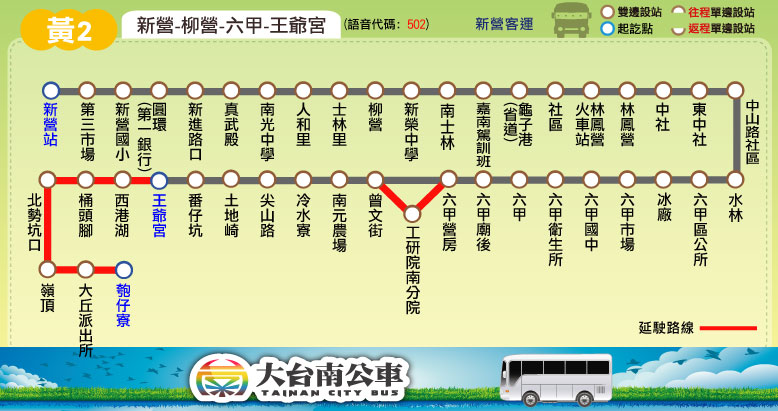
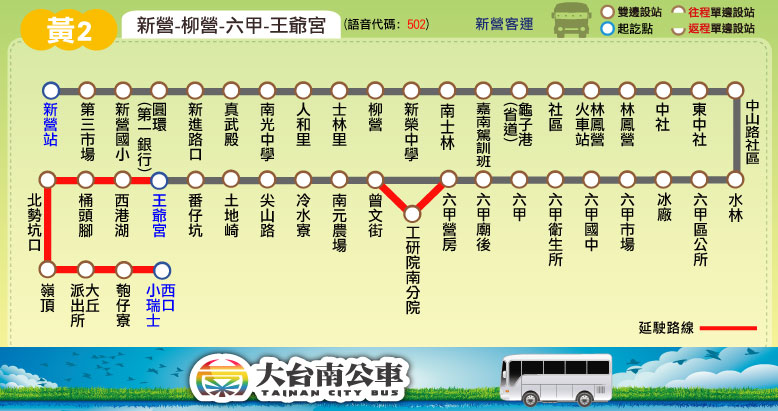
更新路線圖：黃2(延駛「西口小瑞士」)； 更新時刻表：藍2、綠1、綠2、綠5、綠7、綠13、綠16、綠17、綠22、黃1、黃2、黃4； 更新預估到站時刻表：70路； 新增站位：綠13(增「南屏農場」)、99路(增「安平蚵灰窯文化館」(單向)、「大員皇冠假日酒店(安北路)」、「龍山村」)； 更新票價資訊：市民卡及轉乘加碼優惠延長至108/06/30、電子票證新增iCash 2.0

Changed region(s): [[0.0925, 0.6131, 0.2468, 0.8759], [0.0617, 0.6423, 0.0925, 0.6715]]

diff --git a/route/fare_and_time/yellow_2.js b/route/fare_and_time/yellow_2.js
@@ -1,4 +1,4 @@
-yellow_2_interval_name = ["新營","人和里","柳營","龜子港","林鳳營","中社","六甲","六甲<br />營房","南元<br />農場","冷水寮","尖山路","土地崎","王爺宮","西港湖","北勢<br />坑口","大丘"];
+yellow_2_interval_name = ["新營","人和里","柳營","龜子港","林鳳營","中社","六甲","六甲<br />營房","南元<br />農場","冷水寮","尖山路","土地崎","王爺宮","西港湖","北勢<br />坑口","大丘","西口<br />小瑞士"];
 yellow_2_interval_stop = [ // 2018.01.31 checked
 ["新營站","第三市場","新營國小","圓環(第一銀行)","新進路口","真武殿","南光中學"], // 新營
 ["人和里"], // 人和里
@@ -7,15 +7,16 @@ yellow_2_interval_stop = [ // 2018.01.31 checked
 ["林鳳營火車站","林鳳營"], // 林鳳營
 ["中社","東中社"], // 中社
 ["中山路社區","水林","六甲區公所","冰廠","六甲市場","六甲國中","六甲衛生所","六甲","六甲廟後"], // 六甲
-["六甲營房"], // 六甲營房
-["工研院南分院","曾文街","南元農場"], // 南元農場
+["六甲營房","工研院南分院"], // 六甲營房
+["曾文街","南元農場"], // 南元農場
 ["冷水寮"], // 冷水寮
 ["尖山路"], // 尖山路
 ["土地崎"], // 土地崎
 ["番仔坑","王爺宮"], // 王爺宮
 ["西港湖","桶頭腳"], // 西港湖
 ["北勢坑口"], // 北勢坑口
-["嶺頂","大丘派出所","匏仔寮"] // 大丘
+["嶺頂","大丘派出所","匏仔寮"], // 大丘
+["西口小瑞士"] // 西口小瑞士
 ];
 yellow_2_fare = [
 [26],
@@ -33,33 +34,35 @@ yellow_2_fare = [
 [78,69,64,54,48,43,28,26,26,26,26,26,26],
 [87,78,73,63,57,52,37,30,26,26,26,26,26,26],
 [96,87,82,72,65,61,46,38,34,30,26,26,26,26,26],
-[108,99,93,84,77,72,58,50,45,42,37,34,30,26,26,26]
+[108,99,93,84,77,72,58,50,45,42,37,34,30,26,26,26],
+[120,111,106,96,90,85,70,62,58,54,49,46,42,33,26,26,26]
 ];
 // format = [time at the start stop] or
 // [time, other] or
 // [time, start_stop, end_stop, other]
-yellow_2_main_stop_name = ["新營站","柳營","龜子港<br />(省道)","林鳳營<br />火車站","六甲","工研院<br />南分院","王爺宮","西港湖","北勢<br />坑口","匏仔寮"];
-yellow_2_main_stop_time_consume = [0, 9, 15, 18, 30, 37, 50, 55, 59, 70];
-yellow_2_important_stop = [0, 3, 4, 6]; // 新營站, 林鳳營火車站, 六甲, 王爺宮
+yellow_2_main_stop_name = ["新營站","柳營","龜子港<br />(省道)","林鳳營","六甲","工研院<br />南分院","王爺宮","西港湖","北勢<br />坑口","匏仔寮","西口<br />小瑞士"];
+yellow_2_main_stop_time_consume = [0, 9, 15, 18, 30, 37, 50, 55, 59, 66, 72];
+yellow_2_important_stop = [0, 3, 4, 6, 10]; // 新營站, 林鳳營, 六甲, 王爺宮, 西口小瑞士
 var Sinying = 0; // 新營站
 var Liouying = 1; // 柳營
 var Gueizihgang = 2; // 龜子港(省道)
-var TRA_Linfongying = 3; // 林鳳營火車站
+var Linfongying = 3; // 林鳳營
 var Lioujia = 4; // 六甲
 var ITRI = 5; // 工研院南分院
 var Wangye_Temple = 6; // 王爺宮
 var Sigang_Lake = 7; // 西港湖
 var Beishihkengkou = 8; // 北勢坑口
 var Paozihlaio = 9; // 匏仔寮
-yellow_2_time_go = [["05:40",[[Liouying,-3,Liouying+1,-3,Lioujia,-4,Wangye_Temple,-3,Paozihlaio,-2]]],
+var Sikou_Little_Swiss = 10; // 西口小瑞士
+yellow_2_time_go = [["05:40",[[Liouying,-3,Gueizihgang,-3,Lioujia,-4,Wangye_Temple,-4,Sigang_Lake,-1,Beishihkengkou,-1,]]],
 ["07:30",Sinying,Wangye_Temple,[[Liouying,1,Gueizihgang,-1]]],
 ["11:00",[[Gueizihgang,-1,Lioujia,1]]],
 ["14:20",Sinying,Wangye_Temple,[[Gueizihgang,-2,Lioujia,2]]],
-["16:40",[[Liouying,1,Gueizihgang,-1,TRA_Linfongying,1,Lioujia,1,ITRI,1,Wangye_Temple,-3,Sigang_Lake,-1,Paozihlaio,1]]],
-["17:45",Sinying,Wangye_Temple,[[Liouying,5,TRA_Linfongying,3,Lioujia,4,ITRI,2,Wangye_Temple,1]]]];
+["16:40",[[Liouying,1,Gueizihgang,-1,Linfongying,1,Lioujia,1,ITRI,1,Wangye_Temple,-3,Beishihkengkou,1,Paozihlaio,4,Sikou_Little_Swiss,-1]]],
+["17:45",Sinying,Wangye_Temple,[[Liouying,5,Linfongying,3,Lioujia,4,ITRI,2,Wangye_Temple,1]]]];
 yellow_2_time_return = [["06:00",Wangye_Temple,Sinying,[ITRI,[ITRI,-5]]],
-["06:40",[[Beishihkengkou,-6,ITRI,-4,Liouying,-1,Sinying,6]]],
-["08:25",Wangye_Temple,Sinying,[[ITRI,-3,Lioujia,1,TRA_Linfongying,1,Gueizihgang,1]]],
-["12:15",[[Beishihkengkou,-6,ITRI,-3,Lioujia,1,TRA_Linfongying,1,Gueizihgang,1,Sinying,1]]],
+["06:40",[[Beishihkengkou,-2,ITRI,-4,Liouying,-1,Sinying,6]]],
+["08:25",Wangye_Temple,Sinying,[[ITRI,-3,Lioujia,1,Linfongying,1,Gueizihgang,1]]],
+["12:20",[[Beishihkengkou,-1,Wangye_Temple,-1,ITRI,-3,Lioujia,1,Linfongying,1,Gueizihgang,1,Liouying,-1,Sinying,1]]],
 ["15:15",Wangye_Temple,Sinying,[[ITRI,-3,Lioujia,1,Gueizihgang,1,Liouying,-1,Sinying,2]]],
-["17:55",[[Beishihkengkou,-5,Wangye_Temple,-1,ITRI,-3,Lioujia,1,TRA_Linfongying,1,Liouying,-1,Sinying,3]]]];
+["18:10",[[Beishihkengkou,-1,Wangye_Temple,-1,ITRI,-3,Lioujia,1,Gueizihgang,1,Liouying,-1,Sinying,1]]]];

diff --git a/route/fare_and_time/yellow_4.js b/route/fare_and_time/yellow_4.js
@@ -31,12 +31,24 @@ yellow_4_fare = [
 // [time, other] or
 // [time, start_stop, end_stop, other]
 yellow_4_main_stop_name = ["新營站","柳營奇<br />美醫院","法主宮","明聖殿","小腳腿","山仔腳","二重溪","果毅後<br />廟前","六甲"];
-yellow_4_main_stop_time_consume = [0, 13, 17, 19, 23, 30, 34, 40, 50];
+yellow_4_main_stop_time_consume = [0, 11, 17, 19, 23, 28, 33, 40, 50];
 yellow_4_important_stop = [0, 1, 4, 8]; // 新營站, 柳營奇美醫院, 小腳腿, 六甲
 var Sinying = 0; // 新營站
 var Liouying_Chi_Mei_Hospital = 1; // 柳營奇美醫院
+var Fajhu_Temple = 2; // 法主宮
+var Mingsheng_Temple = 3; // 明聖殿
 var Siaojiaotuei = 4; // 小腳腿
+var Shanzihjiao = 5; // 山仔腳
+var Erchong_River = 6; // 二重溪
+var Guoyihou_Temple = 7; // 果毅後廟前
 var Lioujia = 8; // 六甲
-yellow_4_time_go = [["06:40"],["08:40"],["10:10"],["12:10"],["14:00"],["16:15"],["18:45"]];
-yellow_4_time_return = [["05:50",[Liouying_Chi_Mei_Hospital,[Lioujia-1,-2,Lioujia-2,2]]],["07:40",[[Siaojiaotuei,1,Liouying_Chi_Mei_Hospital,1,Sinying,-2]]],["09:40",[[Siaojiaotuei,1,Liouying_Chi_Mei_Hospital,1,Sinying,-2]]],
-["11:10",[[Lioujia-1,-1,Liouying_Chi_Mei_Hospital,1,Sinying,-2]]],["13:10",[[Lioujia-1,-1,Liouying_Chi_Mei_Hospital,1,Sinying,-2]]],["14:55",[[Liouying_Chi_Mei_Hospital,1,Sinying,-1]]],["17:15",[[Siaojiaotuei,1,Liouying_Chi_Mei_Hospital,1,Sinying,-2]]]];
+yellow_4_time_go = [["06:40",[[Liouying_Chi_Mei_Hospital,-1,Mingsheng_Temple,1,Siaojiaotuei,-1,Erchong_River,-1,Guoyihou_Temple,2]]],
+["08:40"],["10:10"],["12:10"],["14:00"],["16:15",[[Liouying_Chi_Mei_Hospital,1,Shanzihjiao,1,Lioujia,-2]]],
+["18:45",[[Shanzihjiao,1,Guoyihou_Temple,-1]]]];
+yellow_4_time_return = [["05:50",[Liouying_Chi_Mei_Hospital,[Guoyihou_Temple,-2,Fajhu_Temple,1,Sinying,1]]],
+["07:45",[[Guoyihou_Temple,-1,Erchong_River,-1,Fajhu_Temple,1,Sinying,1]]],
+["09:45",[[Guoyihou_Temple,-1,Erchong_River,-1,Fajhu_Temple,1,Sinying,1]]],
+["11:15",[[Guoyihou_Temple,-1,Erchong_River,-1,Fajhu_Temple,1,Liouying_Chi_Mei_Hospital,-1,Sinying,2]]],
+["13:15",[[Guoyihou_Temple,-1,Erchong_River,-1,Fajhu_Temple,1,Liouying_Chi_Mei_Hospital,-1,Sinying,2]]],
+["15:05",[[Guoyihou_Temple,-1,Fajhu_Temple,1,Liouying_Chi_Mei_Hospital,-1,Sinying,1]]],
+["17:25",[[Guoyihou_Temple,-1,Fajhu_Temple,1]]]];

diff --git a/tools/transfer_information.js b/tools/transfer_information.js
@@ -176,11 +176,9 @@ transfer_tainan_railway_station = '<tr><th rowspan="9">臺南火車站</th>\
 <tr><td style="text-align: center"><img src="' + LOGO_DIR_PATH + 'highway_bus_transfer_logo.png"></td>\
 	<td id="tour_bus">' + link_highway_bus_8046A + '、' + link_highway_bus_8046 + '、' + link_highway_bus_8050 + '</td></tr>';
 
-transfer_Shangrila = '<tr><th rowspan="4">香格里拉大飯店</th>\
+transfer_Shangrila = '<tr><th rowspan="3">香格里拉大飯店</th>\
 <td style="text-align: center"><img src="' + LOGO_DIR_PATH + 'railway.png"></td>\
 	<td><span style="color:#00AAFF;">台鐵臺南站</span></td></tr>\
-<tr><td style="text-align: center"><img src="' + LOGO_DIR_PATH + 'taiwantrip_logo.png"></td>\
-	<td id="tour_bus">' + link_tour_bus_99 + '</td></tr>\
 <tr><td style="text-align: center"><img src="' + LOGO_DIR_PATH + 'red_transfer_logo.png"></td>\
 	<td id="tour_bus">' + link_sightseeing_eastern + '</td></tr>\
 <tr><td style="text-align: center"><img src="' + LOGO_DIR_PATH + 'city_bus_transfer_logo.png"></td>\
@@ -240,13 +238,11 @@ transfer_taiwan_history_museum = '<tr><th>臺灣歷史博物館</th>\
 <td style="text-align: center"><img src="' + LOGO_DIR_PATH + 'city_bus_transfer_logo.png"></td>\
 	<td id="city_bus">' + link_city_bus_18 + '、' + link_city_bus_20 + '</td></tr>';
 
-transfer_aboriginal_culture_center = '<tr><th rowspan="3">原住民文化會館</th>\
+transfer_aboriginal_culture_center = '<tr><th rowspan="2">原住民文化會館</th>\
 <td style="text-align: center"><img src="' + LOGO_DIR_PATH + 'city_bus_transfer_logo.png"></td>\
 	<td id="city_bus">' + link_city_bus_19 + '、' + link_city_bus_77 + '、' + link_city_bus_77_2 + '</td></tr>\
 <tr><td style="text-align: center"><img src="' + LOGO_DIR_PATH + 'hsr_shuttle_logo.png"></td>\
-	<td id="hsr_shuttle">' + link_hsr_shuttle_H31 + '</td></tr>\
-<tr><td style="text-align: center"><img src="' + LOGO_DIR_PATH + 'taiwantrip_logo.png"></td>\
-	<td id="tour_bus">' + link_tour_bus_88 + '</td></tr>';
+	<td id="hsr_shuttle">' + link_hsr_shuttle_H31 + '</td></tr>';
 
 transfer_anping_fishermans_wharf = '<tr><th rowspan="2">安平漁人碼頭</th>\
 <td style="text-align: center"><img src="' + LOGO_DIR_PATH + 'city_bus_transfer_logo.png"></td>\

diff --git a/route/fare_and_time/yellow_1.js b/route/fare_and_time/yellow_1.js
@@ -26,9 +26,15 @@ yellow_1_fare = [
 // format = [time at the start stop] or
 // [time, other] or
 // [time, start_stop, end_stop, other]
-yellow_1_main_stop_name = ["新營站","柳營","龜子港<br />(省道)","林鳳營<br />火車站","六甲","烏山頭<br />水庫","臺南<br />藝術大學"];
+yellow_1_main_stop_name = ["新營站","柳營","龜子港<br />(省道)","林鳳營","六甲","烏山頭<br />水庫","臺南<br />藝術大學"];
 yellow_1_main_stop_time_consume = [0, 9, 14, 17, 29, 34, 40];
-yellow_1_important_stop = [0, 3, 4, 5, 6]; // 新營站, 林鳳營火車站, 六甲, 烏山頭水庫, 臺南藝術大學
-var main_end_stop = 4; // 六甲
-yellow_1_time_go = [["06:00",0,main_end_stop],["06:50",0,main_end_stop],["08:25"],["09:30"],["12:20"],["13:10"],["15:10"],["17:20",0,main_end_stop],["18:50",0,main_end_stop]];
-yellow_1_time_return = [["06:35",main_end_stop,0],["07:30",main_end_stop,0],["09:15"],["10:20"],["13:10"],["14:00"],["16:00"],["18:10",main_end_stop,0],["19:30",main_end_stop,0]];
+yellow_1_important_stop = [0, 4, 5, 6]; // 新營站, 六甲, 烏山頭水庫, 臺南藝術大學
+var Sinying = 0; // 新營站
+var Liouying = 1; // 柳營
+var Gueizihgang = 2; // 龜子港(省道)
+var Linfongying = 3; // 林鳳營
+var Lioujia = 4; // 六甲
+yellow_1_time_go = [["06:00",Sinying,Lioujia],["06:50",Sinying,Lioujia],["08:25"],["09:30"],["12:20"],["13:10"],["15:10"],["17:20",Sinying,Lioujia],["18:50",Sinying,Lioujia],
+["21:10",Sinying,Lioujia,[[Liouying,-2,Gueizihgang,-1,Lioujia,-1]]]];
+yellow_1_time_return = [["06:35",Lioujia,Sinying],["07:30",Lioujia,Sinying],["09:15"],["10:20"],["13:10"],["14:00"],["16:00"],["18:10",Lioujia,Sinying],["19:30",Lioujia,Sinying],
+["21:40",Lioujia,Sinying,[[Linfongying,-3,Liouying,-2,Sinying,-2]]]];

diff --git a/tools/msg.js b/tools/msg.js
@@ -1,5 +1,5 @@
-MeteredMSG = '<h3><font color="red">刷電子票證(悠遊卡、一卡通)8公里免費</font></h3>';
-CitybusMSG = '<span style="color: red;font-size:20px;font-weight:bold;">台南市民搭乘市區公車(0~99路，33路除外)，並且上、下車都刷市民卡，第1段半價(9元)，當日第2段起免費！</span><br /><span style="color: red;font-size:18px;font-weight:bold;">（本項優惠至108/03/31止，下車未刷卡時，當日搭乘下一段次仍維持半價9元計費）</span><p></p>';
+MeteredMSG = '<h3><font color="red">刷電子票證(悠遊卡、一卡通、iCash 2.0)8公里免費</font></h3>';
+CitybusMSG = '<span style="color: red;font-size:20px;font-weight:bold;">台南市民搭乘市區公車(0~99路，33路除外)，並且上、下車都刷市民卡，第1段半價(9元)，當日第2段起免費！</span><br /><span style="color: red;font-size:18px;font-weight:bold;">（本項優惠至108/06/30止，下車未刷卡時，當日搭乘下一段次仍維持半價9元計費）</span><p></p>';
 PromotionMSG = '<h2>使用電子票證時，上下車皆須刷卡</h2><br /><span style="color:#7F3310;font-size:20px;font-weight:bold;">搭乘台鐵及大台南公車，並且上、下車都刷卡，<br />4小時內轉乘市區公車1段票免費、轉乘幹支線公車8公里免費再折扣9元(需使用電子票證，公車轉台鐵無優惠)</span><p></p><h3>65歲以上長者刷台南市民卡敬老卡及身障人士刷台南市民卡愛心卡，可享大台南公車全線免費搭乘</h3>';
 TimeScheduleMSG = '<p><h2>除了起站為發車時間，其餘站點皆為預估時間，敬請提早候車。</h2></p>';
 W_message = '<font color="#0000FF">W</font>表示僅平日行駛';

diff --git a/route/fare_and_time/green_13.js b/route/fare_and_time/green_13.js
@@ -4,7 +4,7 @@ green_13_interval_stop = [
 ["太平洋社區","蜜月新城","佛顓寺","東成醬油","桃源新城","虎頭埤口"], // 虎頭埤
 ["埤後","口埤","興大林場","赤峰崎","筍廠","茄苓崁","新化慈惠堂","將軍山","風窗"], // 茄苓崁
 ["那拔寮","大坑國小","大坑里"], // 大坑里
-["大坑休閒農場","烏樹林","龍行寺","大谷山","慈蓮寺"], // 大谷山
+["南屏農場","大坑休閒農場","烏樹林","龍行寺","大谷山","慈蓮寺"], // 大谷山
 ["旗來山","岡林","岡林教會","大丘園","岡林橋","紅柿腳","外岡林","大坪崎","水流東"], // 岡林
 ["下崁子","內庄子","龜潭"], // 內庄子
 ["內庄路口","睦光","公館"], // 睦光
@@ -27,5 +27,5 @@ green_13_fare = [
 green_13_main_stop_name = ["新化","虎頭埤口","興大林場","大坑<br />休閒農場","大谷山","慈蓮寺","岡林","內庄路口","左鎮<br />區公所"];
 green_13_main_stop_time_consume = [0, 6, 9, 17, 19, 20, 25, 38, 45];
 green_13_important_stop = [0, 2, 5, 8]; // 新化, 興大林場, 慈蓮寺, 左鎮區公所
-green_13_time_go = [["05:50"],["06:10",0,5,['W']],["08:10"],["09:00"],["10:45"],["11:30"],["15:10"],["17:00"],["18:10"]];
-green_13_time_return = [["06:30",5,0,['W']],["06:45"],["08:55"],["09:45"],["11:30"],["12:15"],["15:55"],["17:45"],["18:55"]];
+green_13_time_go = [["05:50"],["06:10",0,5,['W']],["08:20"],["09:00"],["10:45"],["11:30"],["15:10"],["17:00"],["18:10"]];
+green_13_time_return = [["06:30",5,0,['W']],["06:45"],["09:05"],["09:45"],["11:30"],["12:15"],["15:55"],["17:45"],["18:55"]];

diff --git a/route/fare_and_time/green_16.js b/route/fare_and_time/green_16.js
@@ -33,13 +33,13 @@ green_16_time_go = [["05:50",start_stop,stop_2,[skip_stop,'豐']],["07:00",start
 ["10:00",start_stop,stop_1,[skip_stop]],["11:00",[skip_stop]],["12:00",start_stop,stop_1,[[2,5]]],
 ["13:00",start_stop,stop_1,[skip_stop]],["14:00",[skip_stop]],["15:00",start_stop,stop_1,[skip_stop]],
 ["16:10",start_stop,stop_1,[skip_stop]],["17:25",start_stop,stop_1,[[2,5]]],["18:55",[skip_stop]],
-["19:10",start_stop,stop_1,[skip_stop]],["20:00",start_stop,stop_1,[skip_stop]],["21:00",start_stop,stop_1,[skip_stop]],
-["21:30",start_stop,stop_1,[skip_stop]]
+["19:20",start_stop,stop_1,[skip_stop]],["20:00",start_stop,stop_1,[skip_stop]],["21:00",start_stop,stop_1,[skip_stop]],
+["22:00",start_stop,stop_1,[skip_stop]]
 ];
 green_16_time_return = [["06:20",stop_2,start_stop,[skip_stop,'豐']],["07:30",stop_1,start_stop,[[skip_stop,5]]],
 ["09:15",[skip_stop]],["10:25",stop_1,start_stop,[skip_stop]],["11:45",[skip_stop]],["12:30",stop_1,start_stop,[[skip_stop,5]]],
 ["13:25",stop_1,start_stop,[skip_stop]],["14:45",[skip_stop]],["15:25",stop_1,start_stop,[skip_stop]],
-["16:35",stop_1,start_stop,[skip_stop]],["17:55",stop_1,start_stop,[[skip_stop,5]]],["19:35",stop_1,start_stop,[skip_stop]],
+["16:35",stop_1,start_stop,[skip_stop]],["17:55",stop_1,start_stop,[[skip_stop,5]]],["19:40",stop_1,start_stop,[skip_stop]],
 ["19:40",[skip_stop]],["20:25",stop_1,start_stop,[skip_stop]],["21:25",stop_1,start_stop,[skip_stop]],
-["21:55",stop_1,start_stop,[skip_stop]]
+["22:25",stop_1,start_stop,[skip_stop]]
 ];

diff --git a/route/fare_and_time/green_22.js b/route/fare_and_time/green_22.js
@@ -19,9 +19,9 @@ green_22_fare = [
 green_22_main_stop_name = ["玉井站","鹿陶","鹿陶洋","楠西","香蕉市","梅嶺<br />資訊站","梅嶺"];
 green_22_main_stop_time_consume = [0, 7, 9, 15, 23, 28, 40];
 green_22_important_stop = [0, 3, 6]; // 玉井站, 楠西, 梅嶺
-green_22_time_go = [["07:20"],["10:50"],["11:30"],["14:30"],["18:00"]];
-green_22_time_return = [["08:00"],["11:30"],["12:10"],["15:10"],["18:40"]];
+green_22_time_go = [["07:20"],["10:50"],["11:30"],["14:30"],["18:00"],["20:10",["螢"]]];
+green_22_time_return = [["08:00"],["11:30"],["12:10"],["15:10"],["18:40"],["20:50",["螢"]]];
 
 // holiday schedule
-green_22_holiday_time_go = [["07:20"],["08:10"],["09:30"],["10:50"],["11:30"],["12:30"],["15:40"],["17:10"],["18:00"],["19:30"]];
-green_22_holiday_time_return = [["08:00"],["08:50"],["10:10"],["11:30"],["12:10"],["13:10"],["16:20"],["17:50"],["18:40"],["20:10"]];
+green_22_holiday_time_go = [["07:20"],["08:10"],["09:30"],["10:50"],["11:30"],["12:30"],["15:40"],["17:10"],["18:00"],["19:30"],["20:10",["螢"]],["20:40",["螢"]]];
+green_22_holiday_time_return = [["08:00"],["08:50"],["10:10"],["11:30"],["12:10"],["13:10"],["16:20"],["17:50"],["18:40"],["20:10"],["20:50",["螢"]],["21:20",["螢"]]];

diff --git a/route/fare_and_time/city_bus_70.js b/route/fare_and_time/city_bus_70.js
@@ -2,7 +2,7 @@
 // [time, other] or
 // [time, start_stop, end_stop, other]
 city_bus_70_main_stop_name = ["永華市政中心<br />(府前路)","賢北里","中華北<br />文賢路口","甲頂里","大橋","崑山<br />中學","成大醫院<br />(小東路)","香格里<br />拉飯店","臺南<br />一中","大東<br />夜市","體育公園<br />(臺南大學)","健康<br />金華路口","永華市政中心<br />(府前路)"];
-city_bus_70_main_stop_time_consume = [0, 13, 20, 25, 31, 36, 42, 47, 53, 57, 62, 66, 72];
+city_bus_70_main_stop_time_consume = [0, 7, 10, 15, 20, 25, 30, 35, 41, 45, 50, 54, 60];
 city_bus_70_important_stop = [0, 4, 7, 12]; // 永華市政中心(府前路), 大橋, 香格里拉飯店, 永華市政中心(府前路)
 city_bus_70_time_go = [["06:00"],["06:20"],["06:40"],["07:00"],["07:20"],["07:40"],["08:00"],["08:20"],["08:40"],["09:00"],["09:20"],["10:00"],["11:00"],["12:00"],["13:00"],["14:00"],["14:30"],["15:00"],["15:30"],["16:00"],["16:20"],["16:40"],["17:00"],["17:20"],["17:40"],["18:00"],["18:20"],["18:40"],["19:00"],["20:00"],["21:00"],["22:00"]
 ];

diff --git a/route/fare_and_time/blue_2.js b/route/fare_and_time/blue_2.js
@@ -25,7 +25,7 @@ blue_2_fare = [
 blue_2_main_stop_name = ["佳里站","奇美<br />佳里分院","大灣","學甲","東中洲","溪底寮","北門國中","井仔腳","北門","南鯤鯓"];
 blue_2_main_stop_time_consume = [0, 5, 10, 15, 20, 24, 27, 30, 37, 45];
 blue_2_important_stop = [0, 3, 7, 9]; // 佳里站, 學甲, 井仔腳, 南鯤鯓
-blue_2_time_go = [["06:00",[7,[8,-7,9,-3]]],["06:30",['繞',7,[8,-7,9,-3]]],["08:00"],["09:10"],["11:00"],["12:10"],["13:20"],["14:30"],
+blue_2_time_go = [["05:50",['繞',7]],["06:30",['繞',7,[8,-7,9,-3]]],["08:00"],["09:10"],["11:00"],["12:10"],["13:20"],["14:30"],
 ["15:50"],["17:30"],["18:30"],["19:50",[7,[8,-7,9,-3]]],["20:30",[7,[8,-7,9,-3]]],["21:10",[7,[8,-7,9,-3]]],["22:00",[7,[8,-7,9,-3]]]];
 blue_2_time_return = [["06:35",[7,[8,-3,6,-7]]],["07:15",[7,[8,-3,6,-7]]],["08:45"],["09:55"],["11:45"],["12:55"],["14:05"],["15:15"],
 ["16:45",['繞']],["18:15"],["19:15"],["20:30",[7,[8,-3,6,-7]]],["21:10",[7,[8,-3,6,-7]]],["22:00",[7,[8,-3,6,-7]]],["22:35",[7,[8,-3,6,-7]]]];

diff --git a/route/fare_and_time/green_2.js b/route/fare_and_time/green_2.js
@@ -31,5 +31,5 @@ green_2_fare = [
 green_2_main_stop_name = ["新化","新市<br />火車站","新市","南科<br />實中","亞蔬<br />中心","善化<br />轉運站","善化<br />高中","善化<br />啤酒廠","宏遠<br />紡織","山上<br />市場","水源地","玉峰里"];
 green_2_main_stop_time_consume = [0, 10, 13, 24, 27, 40, 42, 49, 55, 60, 63, 70];
 green_2_important_stop = [0, 1, 3, 5, 9, 10]; // 新化, 新市火車站, 南科實中, 善化轉運站, 山上市場, 水源地
-green_2_time_go = [["05:50"],["07:50",0,9],["13:00",0,9],["16:45"],["20:30",0,9]];
-green_2_time_return = [["07:00"],["08:50",9,0],["14:00",9,0],["17:55"],["21:30",9,0]];
+green_2_time_go = [["05:50"],["07:50",0,9],["13:00",0,9],["16:45"],["20:10",0,9]];
+green_2_time_return = [["07:00"],["08:50",9,0],["14:00",9,0],["18:10"],["21:10",9,0]];

diff --git a/route/fare_and_time/green_17.js b/route/fare_and_time/green_17.js
@@ -30,4 +30,4 @@ green_17_important_stop = [0, 2, 3, 7]; // 安平工業區, 臺南火車站, 崑
 green_17_time_go = [["06:00"],["07:10"],["07:35",['W']],["08:10"],["09:10"],["10:10"],["11:10"],["12:10"],["12:40"],["13:10"],
 ["14:10"],["14:30",['W']],["15:10"],["16:10"],["16:40"],["17:10"],["17:40"],["18:55"],["19:40"],["20:40"],["21:10"],["21:25"]];
 green_17_time_return = [["06:00"],["06:20"],["07:10"],["08:15"],["09:15"],["09:45"],["10:15",['W']],["10:45"],["11:45"],["12:15"],
-["12:45"],["13:15"],["14:15"],["15:15"],["16:15"],["17:00",['W']],["17:30"],["18:00"],["18:15"],["19:15"],["20:15"],["21:00"]];
+["12:45"],["13:15"],["14:15"],["15:15"],["16:15"],["17:00",['W']],["17:30"],["18:10"],["18:30"],["19:15"],["20:15"],["21:00"]];
